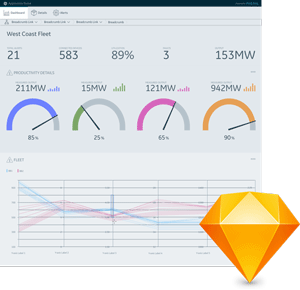
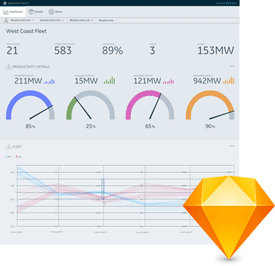
updated homepage images and fixed gallery filtering

diff --git a/css/predix-ui-homepage-styles.html b/css/predix-ui-homepage-styles.html
@@ -1,7 +1,7 @@
 <dom-module id="predix-ui-homepage-styles">
 <template>
 <style>
-@charset "UTF-8";/*! normalize.css v3.0.2 | MIT License | git.io/normalize */h1,h2,h3,h4{font-weight:400}.btn,a{text-decoration:none}.btn,.truncate{white-space:nowrap}:host,html{color:var(--px-base-text-color,#2c404c);line-height:1.33333;-webkit-text-size-adjust:100%;-moz-text-size-adjust:100%;-ms-text-size-adjust:100%;text-size-adjust:100%;-moz-osx-font-smoothing:grayscale;-webkit-font-smoothing:antialiased}body,figure{margin:0}article,aside,details,figcaption,figure,footer,header,hgroup,main,menu,nav,section,summary{display:block}audio,canvas,progress,video{display:inline-block;vertical-align:baseline}audio:not([controls]){display:none;height:0}[hidden],template{display:none}address,blockquote,dl,fieldset,figure,h1,h2,h3,h4,h5,h6,hr,ol,p,pre,table,ul{margin-bottom:1rem}li>ol,li>ul{margin-bottom:0}dd,ol,ul{margin-left:2rem}img{max-width:100%;border:0}svg:not(:root){overflow:hidden}hr{-webkit-box-sizing:content-box;box-sizing:content-box;height:0}pre{overflow:auto}html{background-color:var(--px-base-background-color,#fff);font-size:15px;overflow-y:scroll;min-height:100%;-webkit-box-sizing:border-box;box-sizing:border-box}*,:after,:before{-webkit-box-sizing:inherit;box-sizing:inherit}:host{color:var(--px-catalog-page-text-color,#2c404c);/*! Comment to prevent cssmin munging this rule with html above and borking Safari */-webkit-box-sizing:border-box;box-sizing:border-box}h1,h2,h3,h4,h5,h6,p,ul{margin-bottom:1rem}h2{font-size:2.26667rem}h3{font-size:1.86667rem;margin-top:3.33333rem}h4{font-size:1.33333rem;margin-bottom:.25rem;padding-top:.2rem;padding-bottom:.2rem}h4+p{margin-top:0}.text-accent--primary,h2{color:var(--px-catalog-page-accent-color--primary,red)}.text-accent--secondary,h3,h4{color:var(--px-catalog-page-accent-color--secondary,#00f)}a{background-color:transparent}a,a:active,a:focus,a:link,a:visited{color:var(--px-catalog-page-link-color,#00f)}:root{--px-btn-primary-color:var(--px-hero-btn-primary-color, white);--px-btn-primary-background:var(--px-hero-btn-primary-background, #09819c);--px-btn-primary-background--hover:var(--px-hero-btn-primary-background--hover, #065769);--px-btn-primary-background--pressed:var(--px-hero-btn-primary-background--pressed, #032c36);--px-btn-tertiary-color:var(--px-home-btn-tertiary-color, #09819c);--px-btn-tertiary-color--hover:var(--px-home-btn-tertiary-color--hover, #09819c);--px-btn-tertiary-color--pressed:var(--px-home-btn-tertiary-color--pressed, #032c36);--px-btn-tertiary-background:var(--px-home-btn-tertiary-background, transparent);--px-btn-tertiary-background--hover:var(--px-home-tertiary-background--hover, #c5d1d8);--px-btn-tertiary-background--pressed:var(--px-home-tertiary-background--pressed, #96a8b2);--px-btn-tertiary-border-color:var(--px-home-btn-tertiary-border-color, #09819c)}a:link,a:visited{color:#007acc}a:hover{color:#005c99}a:active{color:#003d66}a:active,a:hover{outline:0}.float--right{float:right!important}.float--left{float:left!important}.float--none{float:none!important}.text--left{text-align:left!important}.text--center{text-align:center!important}.proceed,.text--right{text-align:right!important}.full-height{height:100%!important}.informative{cursor:help!important}.pointer{cursor:pointer!important}.muted{opacity:.5!important}.caps{text-transform:uppercase!important}.hidden{display:none!important;visibility:hidden}.a11y,.visuallyhidden{position:absolute!important;overflow:hidden!important;width:1px!important;height:1px!important;margin:-1px!important;border:0!important;padding:0!important;clip:rect(0 0 0 0)!important}.a11y.focusable:active,.a11y.focusable:focus,.visuallyhidden.focusable:active,.visuallyhidden.focusable:focus{position:static;overflow:visible;width:auto;height:auto;margin:0;clip:auto}@media screen and (min-width:45em) and (max-width:63.9375em){.a11y-lap,.visuallyhidden-lap{position:absolute!important;overflow:hidden!important;width:1px!important;height:1px!important;margin:-1px!important;border:0!important;padding:0!important;clip:rect(0 0 0 0)!important}}@media screen and (max-width:63.9375em){.a11y-portable,.visuallyhidden-portable{position:absolute!important;overflow:hidden!important;width:1px!important;height:1px!important;margin:-1px!important;border:0!important;padding:0!important;clip:rect(0 0 0 0)!important}}@media screen and (max-width:44.9375em){.a11y-palm,.visuallyhidden-palm{position:absolute!important;overflow:hidden!important;width:1px!important;height:1px!important;margin:-1px!important;border:0!important;padding:0!important;clip:rect(0 0 0 0)!important}}@media screen and (min-width:45em){.a11y-lap-and-up,.visuallyhidden-lap-and-up{position:absolute!important;overflow:hidden!important;width:1px!important;height:1px!important;margin:-1px!important;border:0!important;padding:0!important;clip:rect(0 0 0 0)!important}}@media screen and (min-width:64em){.a11y-desk,.a11y-desk-and-up,.visuallyhidden-desk,.visuallyhidden-desk-and-up{position:absolute!important;overflow:hidden!important;width:1px!important;height:1px!important;margin:-1px!important;border:0!important;padding:0!important;clip:rect(0 0 0 0)!important}}@media screen and (min-width:120em){.a11y-large-and-up,.visuallyhidden-large-and-up{position:absolute!important;overflow:hidden!important;width:1px!important;height:1px!important;margin:-1px!important;border:0!important;padding:0!important;clip:rect(0 0 0 0)!important}}@media (-webkit-min-device-pixel-ratio:2),(min-resolution:192dpi),(min-resolution:2dppx){.a11y-retina,.visuallyhidden-retina{position:absolute!important;overflow:hidden!important;width:1px!important;height:1px!important;margin:-1px!important;border:0!important;padding:0!important;clip:rect(0 0 0 0)!important}}.invisible{visibility:hidden!important}.truncate{overflow:hidden;text-overflow:ellipsis}.layout{display:flex;flex-wrap:wrap;list-style:none;margin:0 0 0 -1rem;padding:0}.layout>.layout__item{padding-left:1rem;flex:1;flex-basis:10.66667rem}.layout>.layout__item:nth-last-child(-n+4):first-child,.layout>.layout__item:nth-last-child(-n+4):first-child~.layout__item{flex-basis:16rem}@media screen and (min-width:64em){.layout>.layout__item:nth-last-child(-n+4):first-child,.layout>.layout__item:nth-last-child(-n+4):first-child~.layout__item{flex-basis:0}}.layout>.layout__item:nth-last-child(-n+3):first-child,.layout>.layout__item:nth-last-child(-n+3):first-child~.layout__item{flex-basis:21.33333rem}@media screen and (min-width:64em){.layout>.layout__item,.layout>.layout__item:nth-last-child(-n+3):first-child,.layout>.layout__item:nth-last-child(-n+3):first-child~.layout__item{flex-basis:0}}.btn{display:inline-block;overflow:visible;height:var(--px-btn-height,2em);min-width:var(--px-btn-min-width,4.66667em);margin:0;border:1px solid var(--px-btn-border-color,transparent);border-radius:0!important;padding:0 calc(var(--px-btn-height,2em)/ 2);-webkit-box-shadow:var(--px-btn-shadow--light,none);box-shadow:var(--px-btn-shadow--light,none);font:inherit;line-height:calc(var(--px-btn-height,2em) - 2px);-webkit-font-smoothing:antialiased;cursor:pointer;text-align:center;text-transform:none;background-color:var(--px-btn-background,#d8e0e5);-webkit-transition:background .4s,border-color .4s,color .4s;transition:background .4s,border-color .4s,color .4s}.home-hr,.home-subsection{margin-bottom:2rem}.btn,.btn:active,.btn:hover,.btn:link,.btn:visited{color:var(--px-btn-color,#2c404c)}.btn:focus,.btn:hover{border-color:var(--px-btn-border-color--hover,transparent);-webkit-box-shadow:var(--px-btn-shadow,none);box-shadow:var(--px-btn-shadow,none);background-color:var(--px-btn-background--hover,#a3b5bf)}.btn:active{border-color:var(--px-btn-border-color--pressed,transparent);-webkit-box-shadow:none;box-shadow:none;background-color:var(--px-btn-background--pressed,#889aa5);outline:0}@-moz-document url-prefix(){.btn:not(button){line-height:1.8em}}button.btn{-webkit-appearance:button}.btn+.btn{margin-left:.66667rem}.btn--tertiary{border:1px solid;-webkit-box-shadow:none;box-shadow:none;background-color:var(--px-btn-tertiary-background,#fff)}.btn--tertiary,.btn--tertiary:active,.btn--tertiary:hover,.btn--tertiary:link,.btn--tertiary:visited{border-color:var(--px-btn-tertiary-border-color,#889aa5);color:var(--px-btn-tertiary-color,#007acc)}.btn--tertiary:focus,.btn--tertiary:hover{color:var(--px-btn-tertiary-color--hover,#005c99);border-color:var(--px-btn-tertiary-border-color,#889aa5);-webkit-box-shadow:none;box-shadow:none;background-color:var(--px-btn-tertiary-background--hover,#c5d1d8)}.btn--tertiary:active{color:var(--px-btn-tertiary-color--pressed,#003d66);border-color:var(--px-btn-tertiary-border-color,#889aa5);-webkit-box-shadow:none;box-shadow:none;background-color:var(--px-btn-tertiary-background--pressed,#96a8b2)}.layout__item{max-width:600px}.home-wrapper{padding:30px}.home-hr{border:0;border-top:1px solid var(--px-home-hr-border,#eaeff1)}.home-sub-header{font-size:30px}.home-text-w-photo{min-width:200px}.home-image-scale{width:20rem;height:100%}.hero-image{display:block;background-color:var(--px-home-hero-image-background-color,#ebeff1)}@media screen and (min-width:719px){.home-subsection{margin-right:1rem}.hero-image{min-height:350px}}.refresh-banner{background-color:#09819c;padding:1rem 5%}.refresh-banner p{color:var(--px-home-refresh-banner-a-tag,#fff);margin:0}.u-mh,.u-mr{margin-right:1rem!important}.u-mh,.u-ml{margin-left:1rem!important}.u-mt,.u-mv{margin-top:1rem!important}.u-mb,.u-mv{margin-bottom:1rem!important}.refresh-banner a{color:var(--px-home-refresh-banner-p-tag,#fff)!important;text-decoration:underline!important}.u-m{margin:1rem!important}.u-mh\00002b,.u-mr\00002b{margin-right:1.33333rem!important}.u-mh\00002b,.u-ml\00002b{margin-left:1.33333rem!important}.u-mt\00002b,.u-mv\00002b{margin-top:1.33333rem!important}.u-mb\00002b,.u-mv\00002b{margin-bottom:1.33333rem!important}.u-m\00002b{margin:1.33333rem!important}
+@charset "UTF-8";/*! normalize.css v3.0.2 | MIT License | git.io/normalize */h1,h2,h3,h4{font-weight:400}.btn,a{text-decoration:none}.btn,.truncate{white-space:nowrap}:host,html{color:var(--px-base-text-color,#2c404c);line-height:1.33333;-webkit-text-size-adjust:100%;-moz-text-size-adjust:100%;-ms-text-size-adjust:100%;text-size-adjust:100%;-moz-osx-font-smoothing:grayscale;-webkit-font-smoothing:antialiased}body,figure{margin:0}article,aside,details,figcaption,figure,footer,header,hgroup,main,menu,nav,section,summary{display:block}audio,canvas,progress,video{display:inline-block;vertical-align:baseline}audio:not([controls]){display:none;height:0}[hidden],template{display:none}address,blockquote,dl,fieldset,figure,h1,h2,h3,h4,h5,h6,hr,ol,p,pre,table,ul{margin-bottom:1rem}li>ol,li>ul{margin-bottom:0}dd,ol,ul{margin-left:2rem}img{max-width:100%;border:0}svg:not(:root){overflow:hidden}hr{-webkit-box-sizing:content-box;box-sizing:content-box;height:0}pre{overflow:auto}html{background-color:var(--px-base-background-color,#fff);font-size:15px;overflow-y:scroll;min-height:100%;-webkit-box-sizing:border-box;box-sizing:border-box}*,:after,:before{-webkit-box-sizing:inherit;box-sizing:inherit}:host{color:var(--px-catalog-page-text-color,#2c404c);/*! Comment to prevent cssmin munging this rule with html above and borking Safari */-webkit-box-sizing:border-box;box-sizing:border-box}h1,h2,h3,h4,h5,h6,p,ul{margin-bottom:1rem}h2{font-size:2.26667rem}h3{font-size:1.86667rem;margin-top:3.33333rem}h4{font-size:1.33333rem;margin-bottom:.25rem;padding-top:.2rem;padding-bottom:.2rem}h4+p{margin-top:0}.text-accent--primary,h2{color:var(--px-catalog-page-accent-color--primary,red)}.text-accent--secondary,h3,h4{color:var(--px-catalog-page-accent-color--secondary,#00f)}a{background-color:transparent}a,a:active,a:focus,a:link,a:visited{color:var(--px-catalog-page-link-color,#00f)}:root{--px-btn-primary-color:var(--px-hero-btn-primary-color, white);--px-btn-primary-background:var(--px-hero-btn-primary-background, #09819c);--px-btn-primary-background--hover:var(--px-hero-btn-primary-background--hover, #065769);--px-btn-primary-background--pressed:var(--px-hero-btn-primary-background--pressed, #032c36);--px-btn-tertiary-color:var(--px-home-btn-tertiary-color, #09819c);--px-btn-tertiary-color--hover:var(--px-home-btn-tertiary-color--hover, #09819c);--px-btn-tertiary-color--pressed:var(--px-home-btn-tertiary-color--pressed, #032c36);--px-btn-tertiary-background:var(--px-home-btn-tertiary-background, transparent);--px-btn-tertiary-background--hover:var(--px-home-tertiary-background--hover, #c5d1d8);--px-btn-tertiary-background--pressed:var(--px-home-tertiary-background--pressed, #96a8b2);--px-btn-tertiary-border-color:var(--px-home-btn-tertiary-border-color, #09819c)}a:link,a:visited{color:#007acc}a:hover{color:#005c99}a:active{color:#003d66}a:active,a:hover{outline:0}.float--right{float:right!important}.float--left{float:left!important}.float--none{float:none!important}.text--left{text-align:left!important}.text--center{text-align:center!important}.proceed,.text--right{text-align:right!important}.full-height{height:100%!important}.informative{cursor:help!important}.pointer{cursor:pointer!important}.muted{opacity:.5!important}.caps{text-transform:uppercase!important}.hidden{display:none!important;visibility:hidden}.a11y,.visuallyhidden{position:absolute!important;overflow:hidden!important;width:1px!important;height:1px!important;margin:-1px!important;border:0!important;padding:0!important;clip:rect(0 0 0 0)!important}.a11y.focusable:active,.a11y.focusable:focus,.visuallyhidden.focusable:active,.visuallyhidden.focusable:focus{position:static;overflow:visible;width:auto;height:auto;margin:0;clip:auto}@media screen and (min-width:45em) and (max-width:63.9375em){.a11y-lap,.visuallyhidden-lap{position:absolute!important;overflow:hidden!important;width:1px!important;height:1px!important;margin:-1px!important;border:0!important;padding:0!important;clip:rect(0 0 0 0)!important}}@media screen and (max-width:63.9375em){.a11y-portable,.visuallyhidden-portable{position:absolute!important;overflow:hidden!important;width:1px!important;height:1px!important;margin:-1px!important;border:0!important;padding:0!important;clip:rect(0 0 0 0)!important}}@media screen and (max-width:44.9375em){.a11y-palm,.visuallyhidden-palm{position:absolute!important;overflow:hidden!important;width:1px!important;height:1px!important;margin:-1px!important;border:0!important;padding:0!important;clip:rect(0 0 0 0)!important}}@media screen and (min-width:45em){.a11y-lap-and-up,.visuallyhidden-lap-and-up{position:absolute!important;overflow:hidden!important;width:1px!important;height:1px!important;margin:-1px!important;border:0!important;padding:0!important;clip:rect(0 0 0 0)!important}}@media screen and (min-width:64em){.a11y-desk,.a11y-desk-and-up,.visuallyhidden-desk,.visuallyhidden-desk-and-up{position:absolute!important;overflow:hidden!important;width:1px!important;height:1px!important;margin:-1px!important;border:0!important;padding:0!important;clip:rect(0 0 0 0)!important}}@media screen and (min-width:120em){.a11y-large-and-up,.visuallyhidden-large-and-up{position:absolute!important;overflow:hidden!important;width:1px!important;height:1px!important;margin:-1px!important;border:0!important;padding:0!important;clip:rect(0 0 0 0)!important}}@media (-webkit-min-device-pixel-ratio:2),(min-resolution:192dpi),(min-resolution:2dppx){.a11y-retina,.visuallyhidden-retina{position:absolute!important;overflow:hidden!important;width:1px!important;height:1px!important;margin:-1px!important;border:0!important;padding:0!important;clip:rect(0 0 0 0)!important}}.invisible{visibility:hidden!important}.truncate{overflow:hidden;text-overflow:ellipsis}.layout{display:flex;flex-wrap:wrap;list-style:none;margin:0 0 0 -1rem;padding:0}.layout>.layout__item{padding-left:1rem;flex:1;flex-basis:10.66667rem}.layout>.layout__item:nth-last-child(-n+4):first-child,.layout>.layout__item:nth-last-child(-n+4):first-child~.layout__item{flex-basis:16rem}@media screen and (min-width:64em){.layout>.layout__item:nth-last-child(-n+4):first-child,.layout>.layout__item:nth-last-child(-n+4):first-child~.layout__item{flex-basis:0}}.layout>.layout__item:nth-last-child(-n+3):first-child,.layout>.layout__item:nth-last-child(-n+3):first-child~.layout__item{flex-basis:21.33333rem}@media screen and (min-width:64em){.layout>.layout__item,.layout>.layout__item:nth-last-child(-n+3):first-child,.layout>.layout__item:nth-last-child(-n+3):first-child~.layout__item{flex-basis:0}}.btn{display:inline-block;overflow:visible;height:var(--px-btn-height,2em);min-width:var(--px-btn-min-width,4.66667em);margin:0;border:1px solid var(--px-btn-border-color,transparent);border-radius:0!important;padding:0 calc(var(--px-btn-height,2em)/ 2);-webkit-box-shadow:var(--px-btn-shadow--light,none);box-shadow:var(--px-btn-shadow--light,none);font:inherit;line-height:calc(var(--px-btn-height,2em) - 2px);-webkit-font-smoothing:antialiased;cursor:pointer;text-align:center;text-transform:none;background-color:var(--px-btn-background,#d8e0e5);-webkit-transition:background .4s,border-color .4s,color .4s;transition:background .4s,border-color .4s,color .4s}.home-hr,.home-subsection{margin-bottom:2rem}.btn,.btn:active,.btn:hover,.btn:link,.btn:visited{color:var(--px-btn-color,#2c404c)}.btn:focus,.btn:hover{border-color:var(--px-btn-border-color--hover,transparent);-webkit-box-shadow:var(--px-btn-shadow,none);box-shadow:var(--px-btn-shadow,none);background-color:var(--px-btn-background--hover,#a3b5bf)}.btn:active{border-color:var(--px-btn-border-color--pressed,transparent);-webkit-box-shadow:none;box-shadow:none;background-color:var(--px-btn-background--pressed,#889aa5);outline:0}@-moz-document url-prefix(){.btn:not(button){line-height:1.8em}}button.btn{-webkit-appearance:button}.btn+.btn{margin-left:.66667rem}.btn--tertiary{border:1px solid;-webkit-box-shadow:none;box-shadow:none;background-color:var(--px-btn-tertiary-background,#fff)}.btn--tertiary,.btn--tertiary:active,.btn--tertiary:hover,.btn--tertiary:link,.btn--tertiary:visited{border-color:var(--px-btn-tertiary-border-color,#889aa5);color:var(--px-btn-tertiary-color,#007acc)}.btn--tertiary:focus,.btn--tertiary:hover{color:var(--px-btn-tertiary-color--hover,#005c99);border-color:var(--px-btn-tertiary-border-color,#889aa5);-webkit-box-shadow:none;box-shadow:none;background-color:var(--px-btn-tertiary-background--hover,#c5d1d8)}.btn--tertiary:active{color:var(--px-btn-tertiary-color--pressed,#003d66);border-color:var(--px-btn-tertiary-border-color,#889aa5);-webkit-box-shadow:none;box-shadow:none;background-color:var(--px-btn-tertiary-background--pressed,#96a8b2)}.layout__item{max-width:600px}.home-wrapper{padding:30px}.home-hr{border:0;border-top:1px solid var(--px-home-hr-border,#eaeff1)}.home-sub-header{font-size:30px}.home-text-w-photo{min-width:200px}.home-image-scale{width:18.33333rem;height:100%}.hero-image{display:block;background-color:var(--px-home-hero-image-background-color,#ebeff1)}@media screen and (min-width:719px){.home-subsection{margin-right:1rem}.hero-image{min-height:350px}}.refresh-banner{background-color:#09819c;padding:1rem 5%}.refresh-banner p{color:var(--px-home-refresh-banner-a-tag,#fff);margin:0}.u-mh,.u-mr{margin-right:1rem!important}.u-mh,.u-ml{margin-left:1rem!important}.u-mt,.u-mv{margin-top:1rem!important}.u-mb,.u-mv{margin-bottom:1rem!important}.refresh-banner a{color:var(--px-home-refresh-banner-p-tag,#fff)!important;text-decoration:underline!important}.u-m{margin:1rem!important}.u-mh\00002b,.u-mr\00002b{margin-right:1.33333rem!important}.u-mh\00002b,.u-ml\00002b{margin-left:1.33333rem!important}.u-mt\00002b,.u-mv\00002b{margin-top:1.33333rem!important}.u-mb\00002b,.u-mv\00002b{margin-bottom:1.33333rem!important}.u-m\00002b{margin:1.33333rem!important}
 </style>
 </template>
 </dom-module>

diff --git a/_pages/component-gallery/component-gallery.html b/_pages/component-gallery/component-gallery.html
@@ -83,6 +83,8 @@
           type: Array,
           value: [
             {"name" : "Alerts", "selected" : false},
+            {"name" : "App Navigation", "selected" : false},
+            {"name" : "Asset Navigation", "selected" : false},
             {"name" : "Buttons", "selected" : false},
             {"name" : "CSS", "selected" : false},
             {"name" : "Data Display", "selected" : false},
@@ -91,7 +93,6 @@
             {"name" : "Layout", "selected" : false},
             {"name" : "Messaging", "selected" : false},
             {"name" : "Mobile", "selected" : false},
-            {"name" : "Navigation", "selected" : false},
             {"name" : "Status", "selected" : false},
             {"name" : "Visual", "selected" : false}
           ]

diff --git a/sass/predix-ui-homepage.scss b/sass/predix-ui-homepage.scss
@@ -64,7 +64,7 @@ $inuit-enable-btn--tertiary : true;
 }
 
 .home-image-scale {
-  width: calculateRem(300px);
+  width: calculateRem(275px);
   height: 100%;
 }
 
